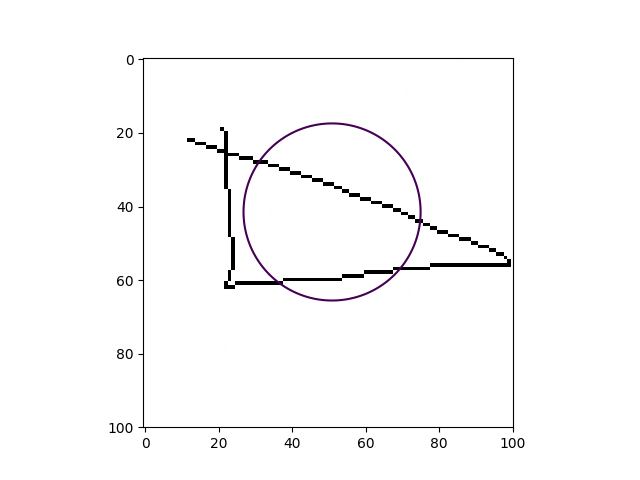
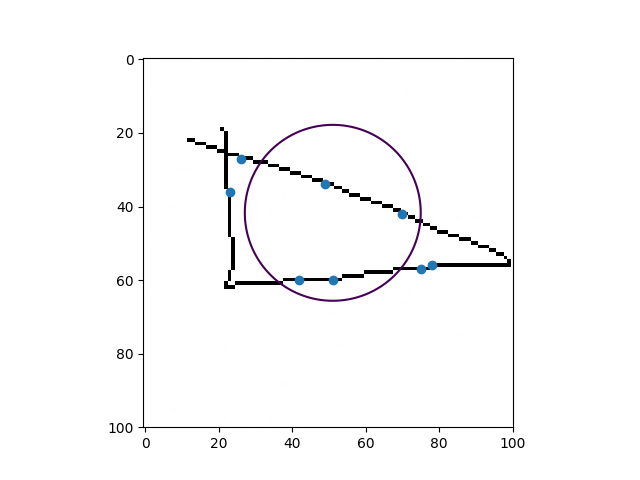
feat: Linear Alg A3 P4 Ver3

diff --git a/LinearAlg/A3/A3.py b/LinearAlg/A3/A3.py
@@ -56,19 +56,19 @@ def dataSampling(x):
         if p not in pts:
             pts.append(p)
 
-    # Add the 96th percentile x values
-    addPt(upper[len(upper) // 96])
-    addPt(upper[-len(upper)//96 - 1])
+    # Add the left and right x values
+    addPt(upper[len(upper) // 97])
+    addPt(upper[-len(upper)//97 - 1])
 
-    # Add median, 20th percentile, and 80th percentile of the upper set
+    # Add median, 22th percentile, and 78th percentile of the upper set
     addPt(upper[len(upper) // 2])
-    addPt(upper[len(upper) // 5])
-    addPt(upper[-len(upper)//5 - 1])
+    addPt(upper[int(len(upper) * 0.22)])
+    addPt(upper[int(-len(upper)*0.22) - 1])
 
-    # Add median, 20th percentile, and 80th percentile of  the lower set
+    # Add median, 22th percentile, and 78th percentile of the lower set
     addPt(lower[len(lower) // 2])
-    addPt(lower[len(lower) // 5])
-    addPt(lower[-len(lower)//5 - 1])
+    addPt(lower[int(len(lower) * 0.22)])
+    addPt(lower[int(-len(lower)*0.22) - 1])
 
     return pts
 
@@ -179,16 +179,12 @@ def judge_sampling(points) :
 
     return (all_point - sp_len) / all_point
 
-total = 0
-
 def judge(points) :
     sample = judge_sampling(points)
     overlap = judge_overlapping(points)
 
     print("The score of this question is : ")
     print("20 * (0.3 * ? (Efficiency, need your report) + 0.3 * {:f} (correctness) + 0.4 * {:f} (sampling) ) =  ? + {:f}".format(overlap, sample, 20 * (0.3 * overlap + 0.4 * sample)))
-    total += sample
-
 
 def main(file, mode="circle", no_sampling=False, draw_sample=False) :
     # read image and get circle points
@@ -271,10 +267,8 @@ circle_files += ["1.png", "circle1.png", "circle2.png", "circle3.png"]
 # ellipse_files = ['ellipse1.png', "ellipse2.png", "3.png"]
 
 for f in circle_files :
-    main(f, mode="circle")
+    main(f, mode="circle", draw_sample=True)
 
-print(total)
 # main('x=y.png', mode="circle")
 # main('2.png', mode="circle")
 # main('3.png', mode="circle")
-# main('x=y.png', mode="circle")
